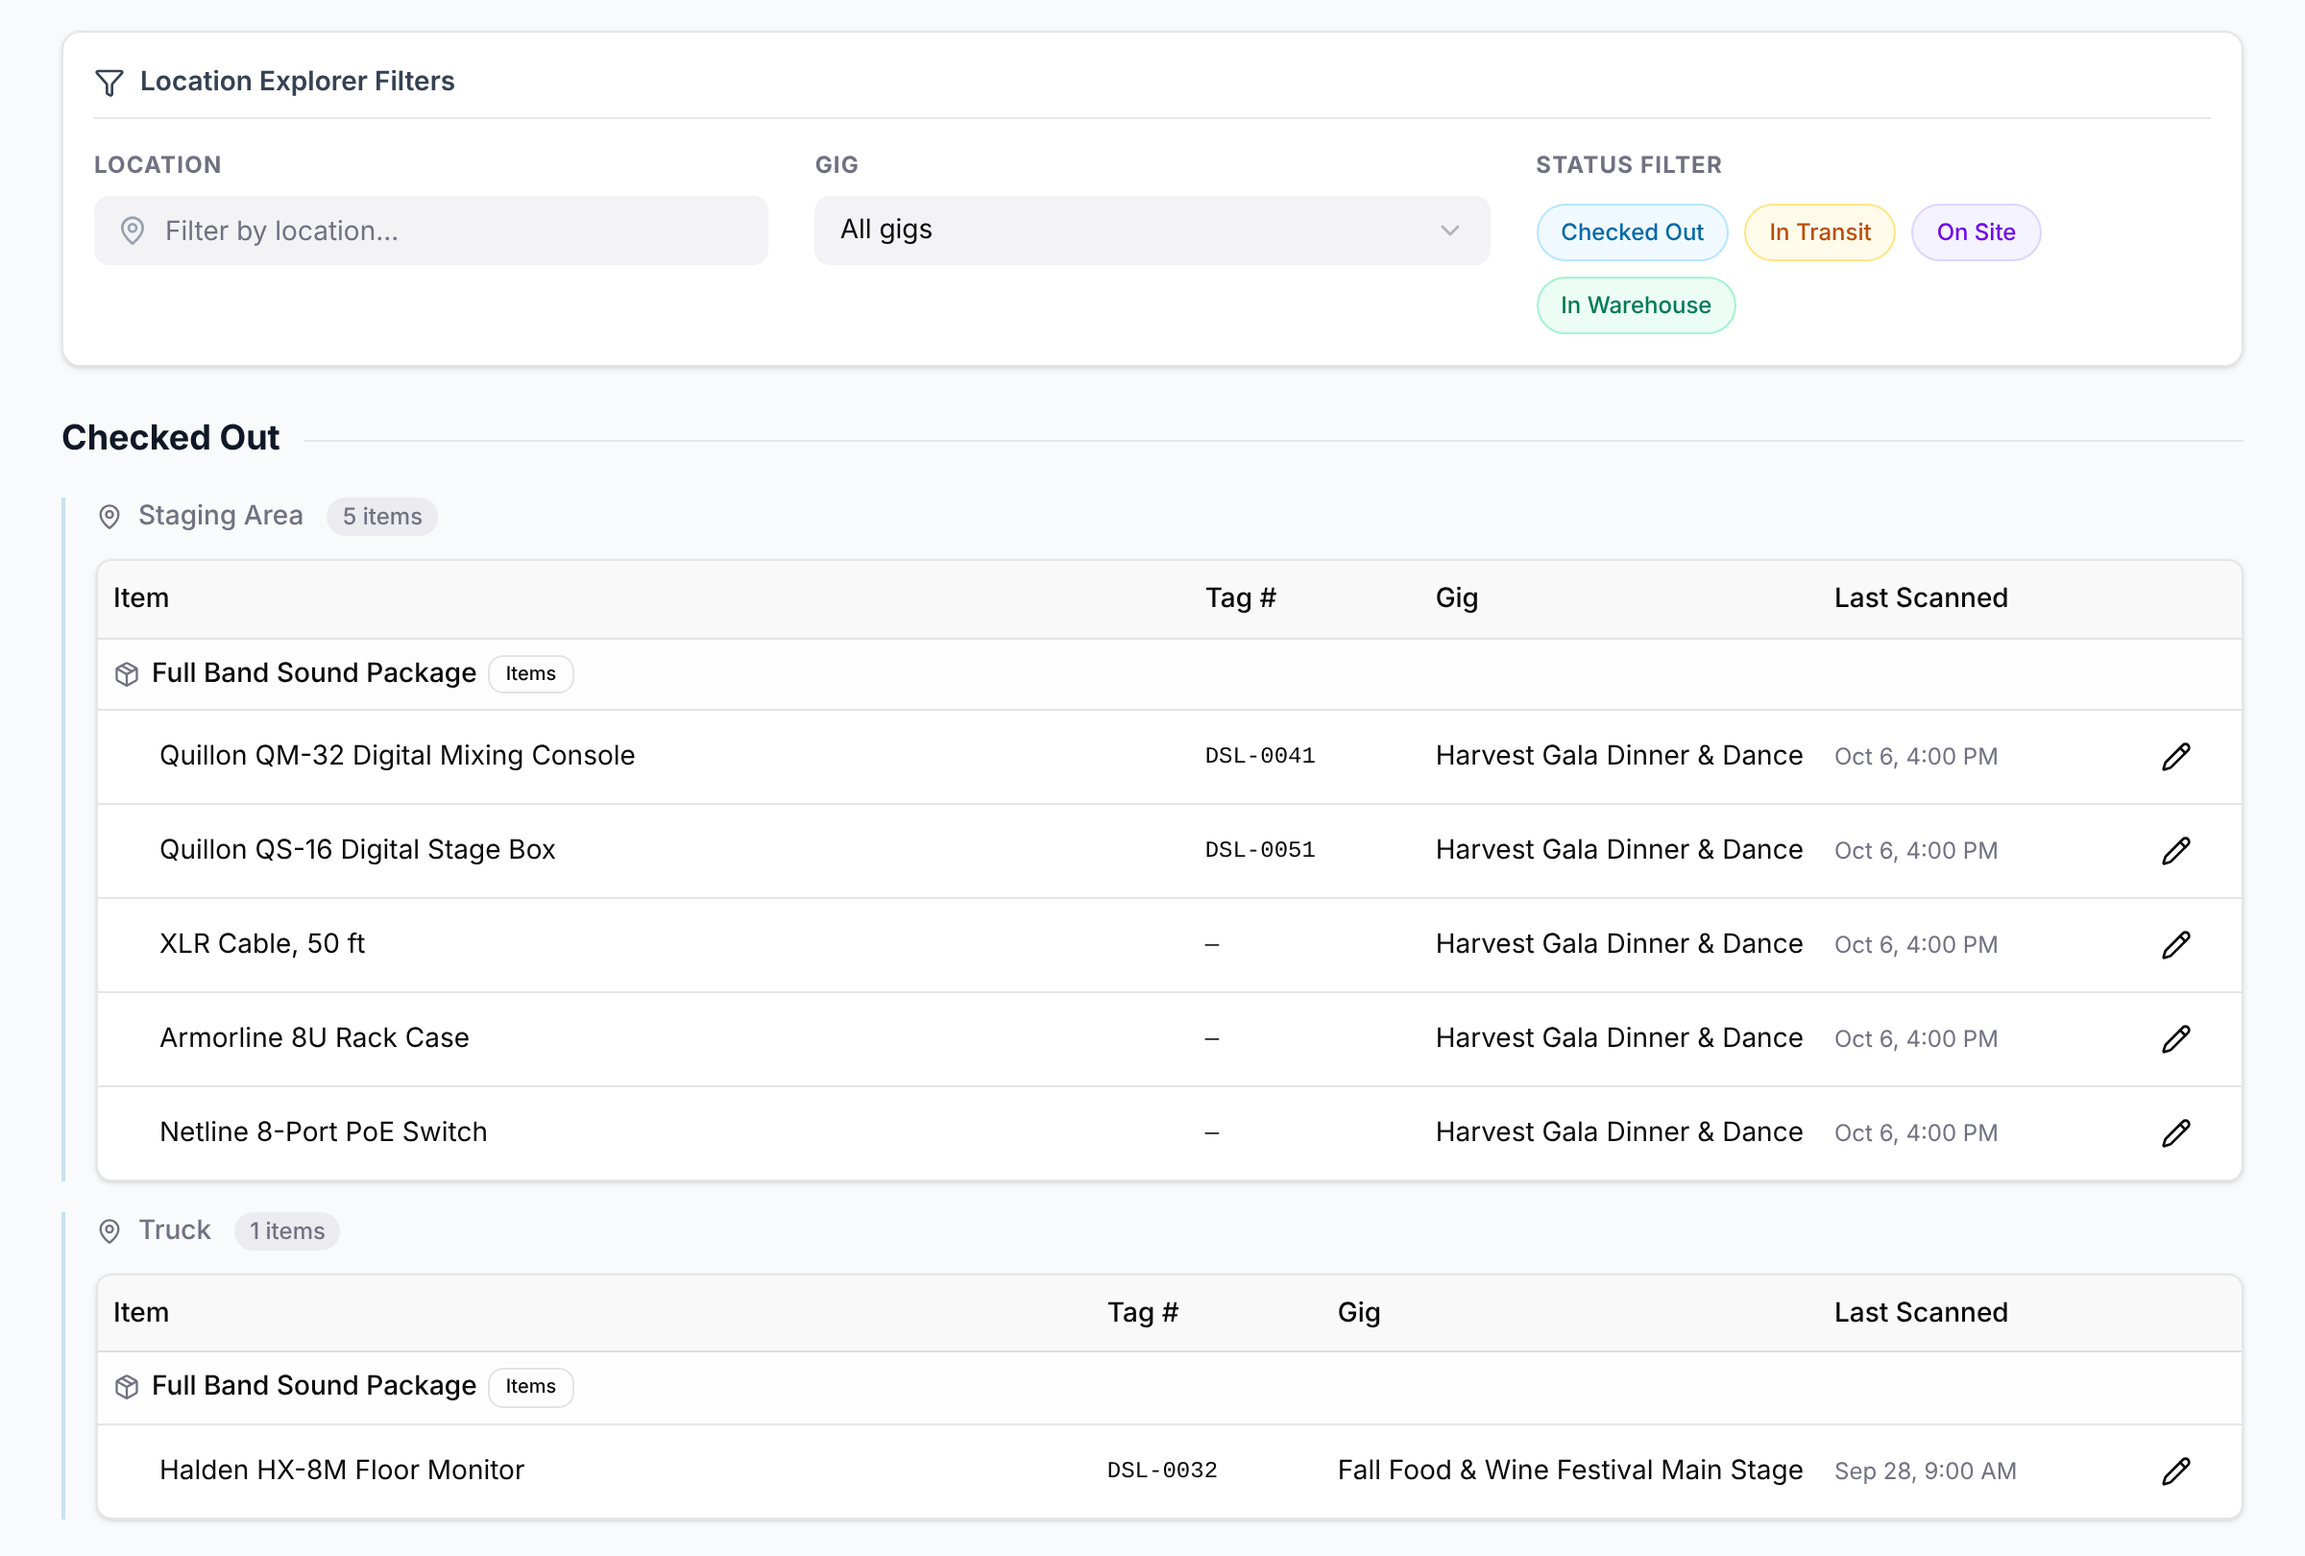
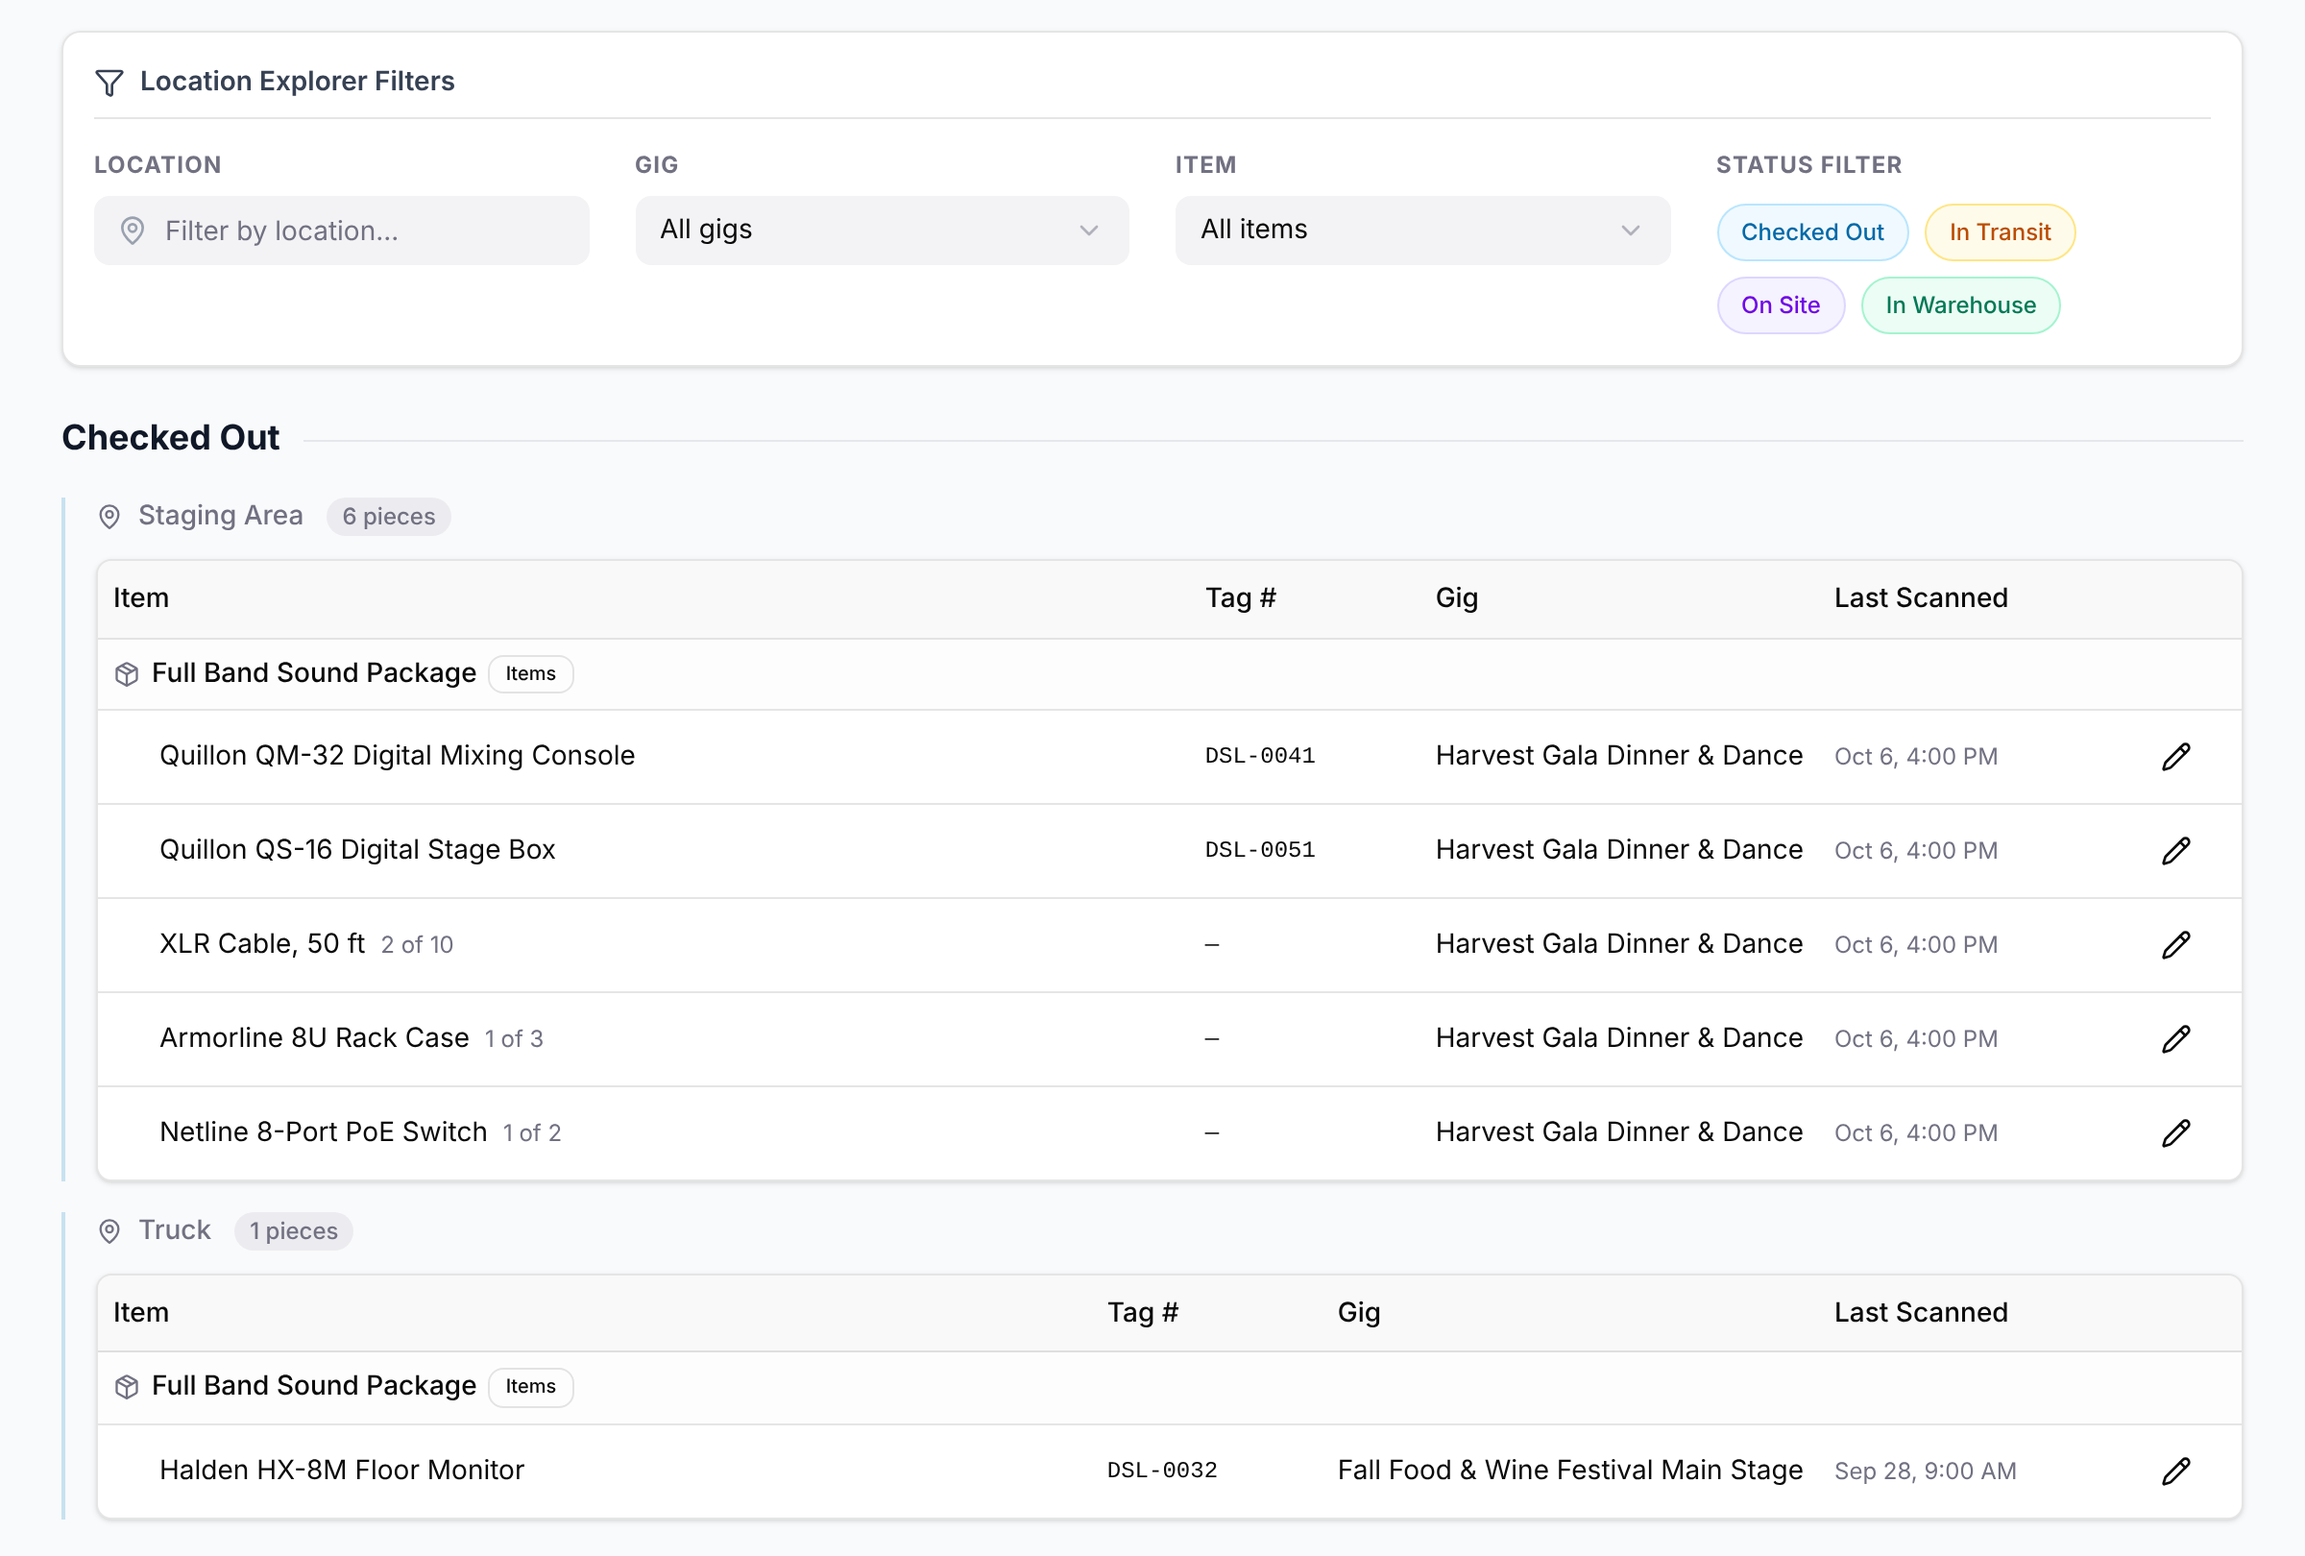
User guide: publish Locations for #268 (live in prod 10-13) (#287)
* User guide (held): Locations for #268 — Item filter and card, pieces counts, Move N of a lot

Held until #268 reaches production. Checked on dev at 57d344d.

Claude-Session: https://claude.ai/code/session_0118YwkJXDrQDMYNEuMW5wT3

* Locations: retake overview shot for #268 (Item filter, pieces, N of M)

Claude-Session: https://claude.ai/code/session_0118YwkJXDrQDMYNEuMW5wT3

* taken.json: appCommit is main's d8d71fd

Claude-Session: https://claude.ai/code/session_0118YwkJXDrQDMYNEuMW5wT3

---------

diff --git a/website/docs/src/content/docs/equipment/location-explorer.md b/website/docs/src/content/docs/equipment/location-explorer.md
@@ -10,15 +10,16 @@ on a truck, at a venue or back in the warehouse. Every scan on the phone, and ev
 correction, updates it. Everyone in the organization can see it; Admins and Managers
 can also correct a record.
 
-![Locations: the filters, then Checked Out with the Staging Area and Truck groups, each listing equipment under its kit](../../../assets/screenshots/equipment/location-explorer-overview.png)
+![Locations: the Location, Gig, Item and Status filters, then Checked Out with the Staging Area (6 pieces) and Truck groups, each listing equipment under its kit, lots such as "XLR Cable, 50 ft 2 of 10"](../../../assets/screenshots/equipment/location-explorer-overview.png)
 
 ## Reading the page
 
 The page is grouped by status, such as **Checked Out** or **In Warehouse**, and then by
-place, such as "Staging Area" or "Warehouse, Bay 2", with how many items are there.
+place, such as "Staging Area" or "Warehouse, Bay 2", with how many pieces are there.
 Inside each place, equipment is listed under its kit, which has an **Items** badge.
 Each line shows the **Item**, its **Tag #**, the **Gig** of its latest record and when
-it was **Last Scanned**.
+it was **Last Scanned**. A lot's line also shows how many of its pieces are at that
+place, such as "2 of 10".
 
 Each piece of equipment shows where its newest record puts it, across all gigs. A
 monitor that went out to one gig and then on to another shows once, at the second gig.
@@ -47,6 +48,11 @@ than tagged.
 
 Use the filters at the top to narrow the list:
 
+- **Item:** one item, such as "XLR Cable, 50 ft". A card above the list sums up where
+  all of it is, for example "XLR Cable, 50 ft: 2 at Harvest Gala Dinner & Dance (Staging
+  Area) · 8 not checked out". Pieces at home read "not checked out", unless they all came back
+  on an **Unload** scan; then the card names where they were unloaded, such as
+  "6 at Warehouse".
 - **Location:** one place, such as "Truck".
 - **Gig:** equipment whose current record is from that gig. Equipment that has since
   moved on to another gig isn't listed.
@@ -69,6 +75,21 @@ without being scanned.
 The correction is a new record, so the item moves to its new place right away, and
 the history of earlier records stays. Correcting a case moves the case. What's in it
 keeps its own records.
+
+### Moving part of a lot
+
+You can move some of the pieces on a lot's line, such as "4 of 6", to another gig, or
+bring them home with **In Warehouse**. The dialog asks how many: "Move 2 of the 4 at
+Cedar Hall Fall Songwriter Showcase (Staging Area)". Below it, a line shows the result,
+such as "After: 2 stay at Cedar Hall Fall Songwriter Showcase (Staging Area) · 2 back
+home", and the button reads **Move 2**.
+
+A new status at the same gig, such as **In Transit**, applies to all the pieces on the
+line, so the count goes away.
+
+If the pieces are in a case and you move some to another gig, the dialog warns "These
+2 leave Mic Case. The case stays at Cedar Hall Fall Songwriter Showcase." The pieces you
+move are loose at the new gig, and the rest stay in the case.
 
 ## Related
 
